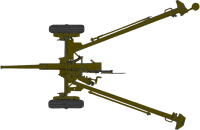
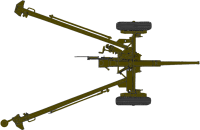
Rotate tower images

Changed region(s): [[0.0, 0.0, 1.0, 1.0]]

diff --git a/src/Shop.cpp b/src/Shop.cpp
@@ -41,6 +41,9 @@ void Shop::init(TextureManager& texManager, const sf::RenderWindow& window)
 		item.setPosition(itemPos + margin);
 		itemPos.x += bgRect.width;
 
+		// Rotate the tower image
+		item.getSprite().rotate(-90.f);
+
 		item.setCost(m_towerAttributes[i]["baseCost"]);
 		m_items.push_back(item);
 		i++;

diff --git a/src/Tower.cpp b/src/Tower.cpp
@@ -87,7 +87,7 @@ void Tower::setFireRate(float fireRate)
 void Tower::aim(const sf::Vector2f& target)
 {
 	float angle = radToDeg(getAngle(target, getPosition()));
-	setRotation(angle + 90.f);
+	setRotation(angle);
 	m_target = target;
 }
 
